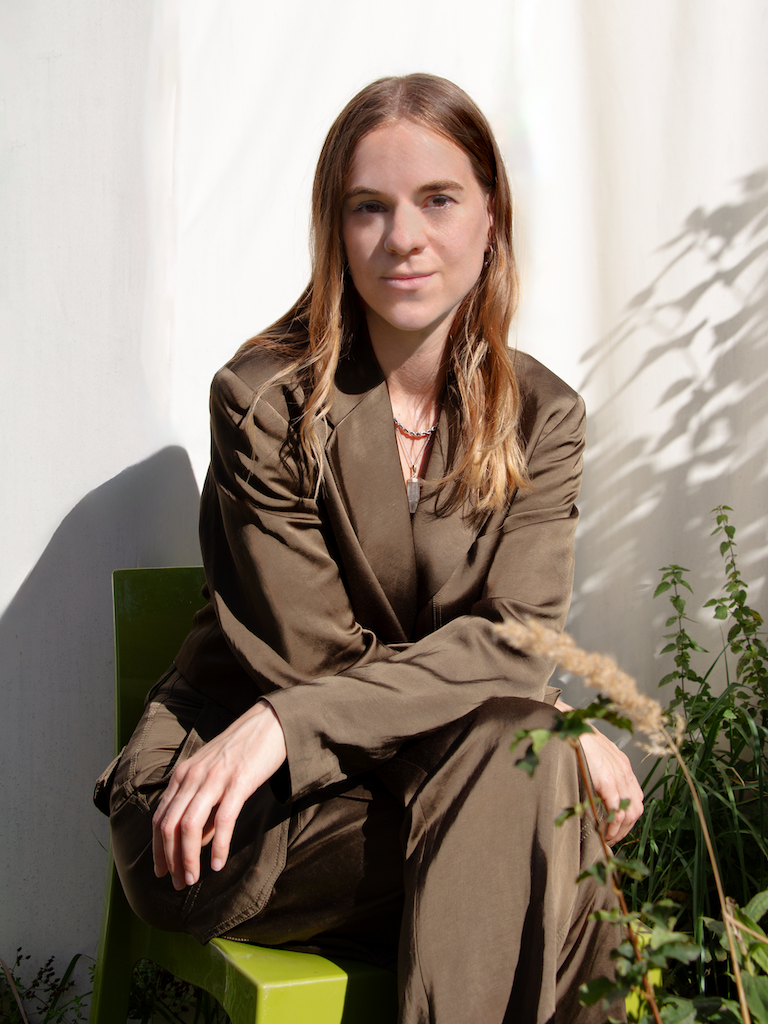
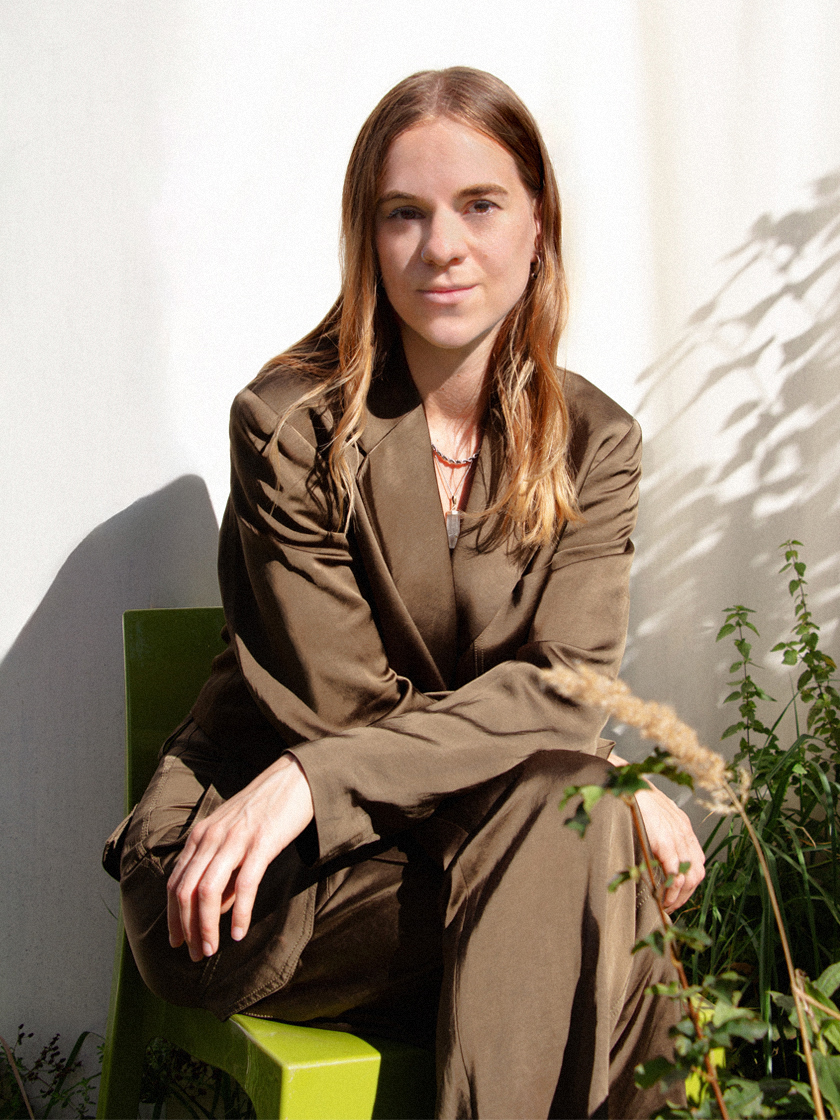
feat: bigger pics for about page

diff --git a/components/NavMenus.jsx b/components/NavMenus.jsx
@@ -12,7 +12,7 @@ import hanselPic from '../public/img/physical/flanelle/2_models_posing_togehter_
 import fluxPic from '../public/img/physical/in-constant-flux/male_model_sit_on_window.webp'
 import lowHandsPic from '../public/img/about/low_hands.webp'
 import profilePic from '../public/img/about/profile.webp'
-import handOnChinPic from '../public/img/about/hand_on_chin.webp'
+import elbowOnChairPic from '../public/img/about/elbow_on_chair.webp'
 
 function NavMenus() {
 
@@ -119,7 +119,7 @@ function NavMenus() {
         </div>
         <div className="navmenu__about navmenu__about--marion max-w-[21%] ml-[75%] absolute bottom-[60px] opacity-0 translate-y-[100px] transition-[opacity,transform] duration-[100,300] delay-500" >
           <Image
-            src={handOnChinPic}
+            src={elbowOnChairPic}
             alt="ronja hand on chin"
             style={{
               width: '100%',
